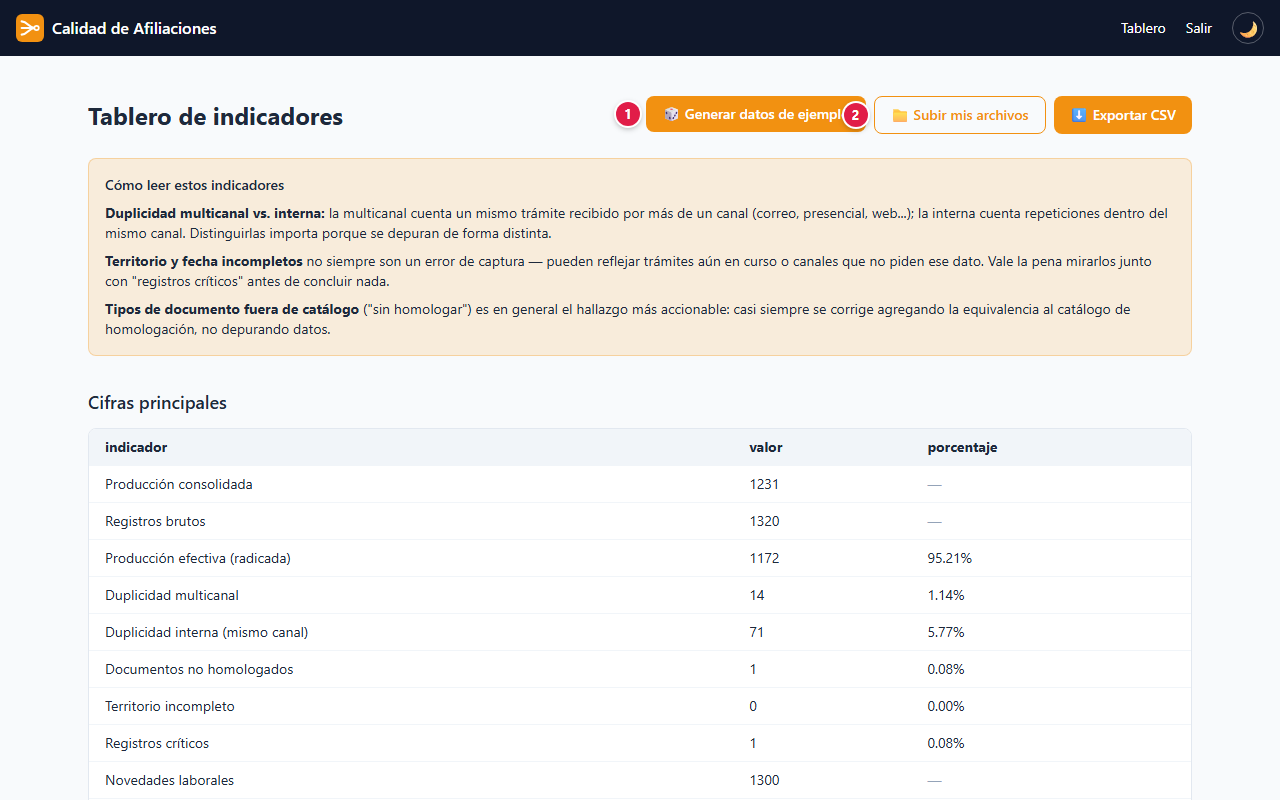
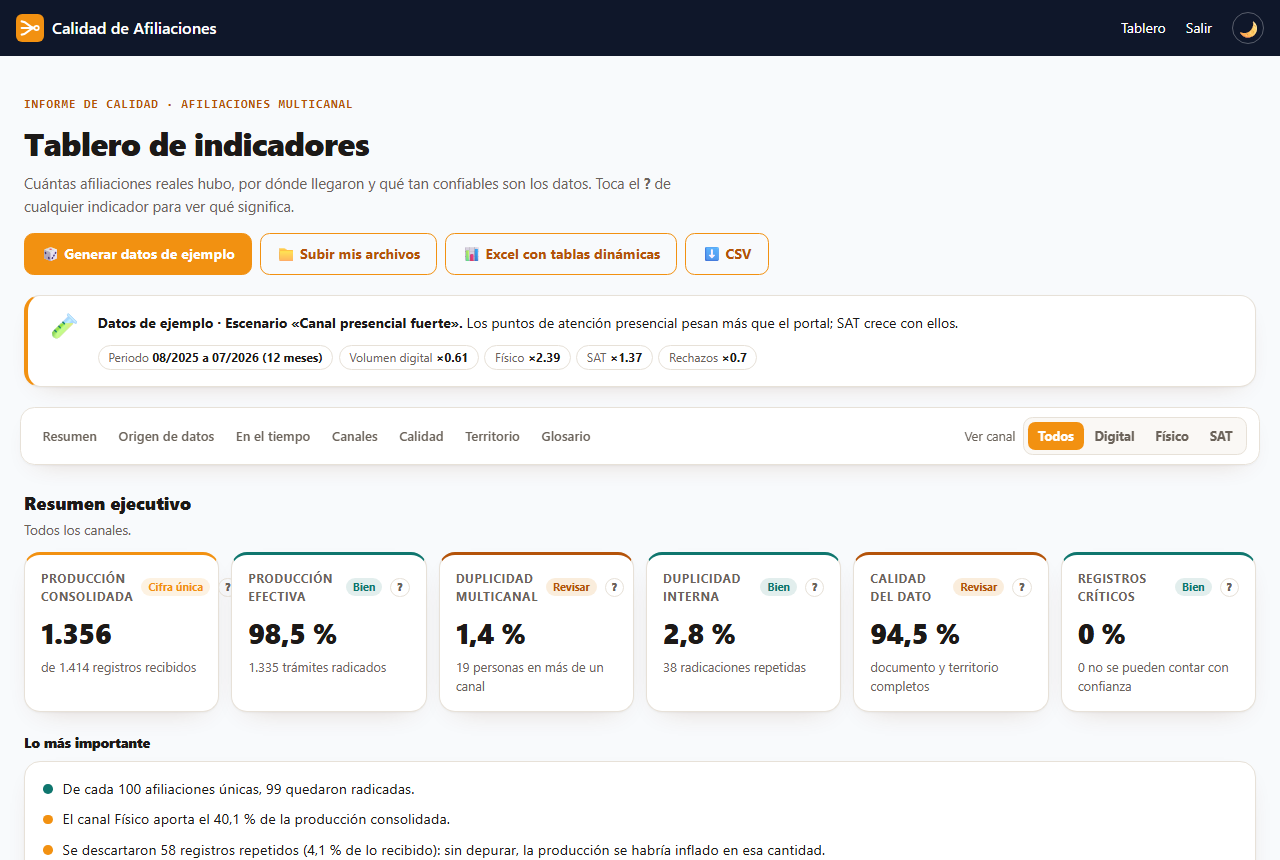
Tablero: título de indicador sin recortes y capturas del manual
La etiqueta "Cifra única" empujaba el botón de ayuda fuera de la tarjeta;
pasa a "Total" y el título puede bajar de línea. El manual muestra el
tablero nuevo.

diff --git a/web/static/js/tablero.js b/web/static/js/tablero.js
@@ -86,7 +86,7 @@
     function pintarKpis(t) {
         var calidad = pct(t.consolidados - t.noHomologado - t.territorio, t.consolidados);
         var tarjetas = [
-            ["Producción consolidada", n(t.consolidados), "de " + n(t.recibidos) + " registros recibidos", ["neutro", "Cifra única"],
+            ["Producción consolidada", n(t.consolidados), "de " + n(t.recibidos) + " registros recibidos", ["neutro", "Total"],
              "Afiliaciones únicas: una por persona, aunque haya radicado por varios canales o varias veces. Es la cifra en la que se puede confiar."],
             ["Producción efectiva", fpct(pct(t.efectiva, t.consolidados)), n(t.efectiva) + " trámites radicados", semaforo(pct(t.efectiva, t.consolidados), 90, 80, true),
              "Parte del consolidado que quedó radicada. Lo anulado, rechazado o sin prerradicar no cuenta como producción. Referencia: 90 % o más."],

diff --git a/web/static/css/tablero.css b/web/static/css/tablero.css
@@ -355,9 +355,10 @@
 
 .tb-kpi-titulo {
   display: flex;
+  flex-wrap: wrap;
   align-items: center;
   justify-content: space-between;
-  gap: 0.5rem;
+  gap: 0.35rem 0.5rem;
   margin: 0 0 0.4rem;
   color: var(--t-suave);
   font-size: 0.76rem;
